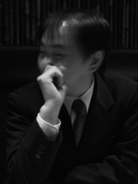
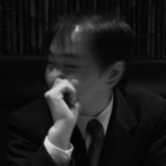
fixed aspect ratio of Nagao and Nomura photos, added Nagai image.

diff --git a/_posts/uchu_forum/en/2015-12-09-nakai.html b/_posts/uchu_forum/en/2015-12-09-nakai.html
@@ -12,7 +12,7 @@ tags: [First star]
 #pdf: 2015-12-09-uchu_forum.pdf
 img_thumb: Naomasa_Nakai.png
 img:
-#  - ngc4258.png
+  - dusty_galaxy.jpg
 categories:
   - uchu_forum
   - en

diff --git a/_posts/uchu_forum/ja/2015-12-09-nakai.html b/_posts/uchu_forum/ja/2015-12-09-nakai.html
@@ -12,7 +12,7 @@ tags: [First star]
 #pdf: 2015-12-09-uchu_forum.pdf
 img_thumb: Naomasa_Nakai.png
 img:
-#  - ngc4258.png
+  - dusty_galaxy.jpg
 categories:
   - uchu_forum
   - ja
